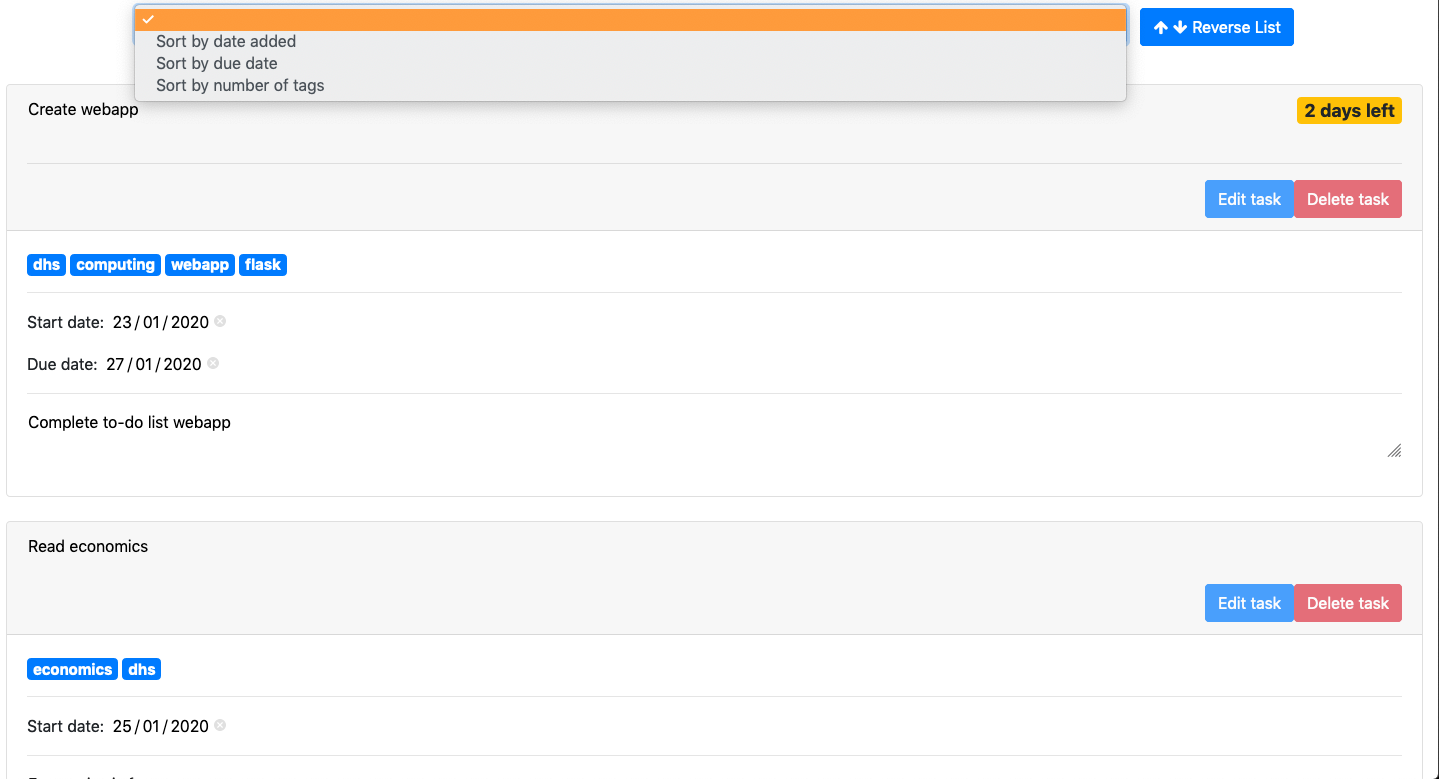
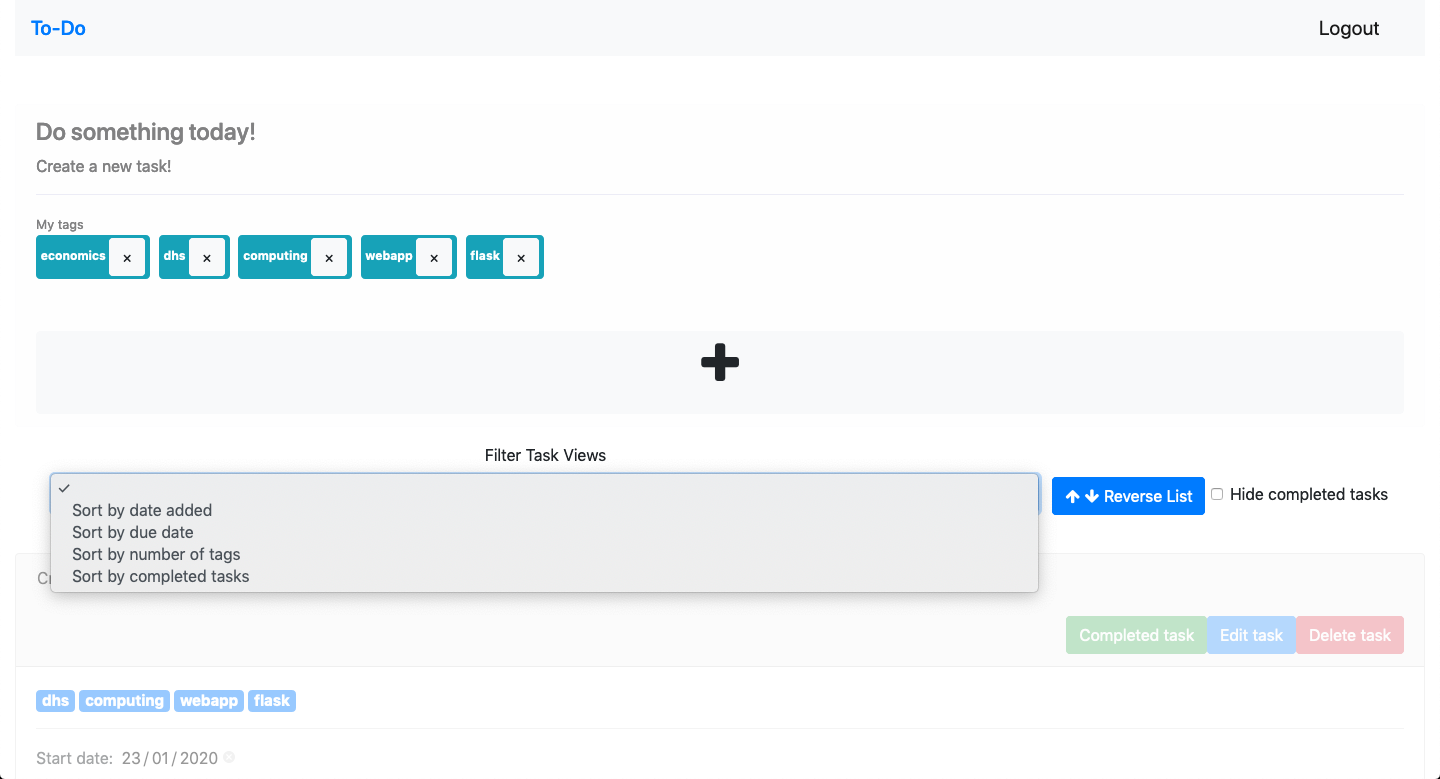
Handled task completion and added back buttons in login and signup page

diff --git a/templates/js/todo.js b/templates/js/todo.js
@@ -22,10 +22,15 @@ for (var i=0; i<editable_fields.length; i++) {
 
 function handle_filter () {
   var filter_selected = document.getElementById("filter_views").value;
+  if (filter_selected == "filter_task_completion") {
+    filter_completion();
+    event.preventDefault();
+    return false;
+  }
   filter_form.submit();
 }
 
-function filter_reverse () {
+function get_todo_nodes () {
   var todo_list = document.getElementById("todo_list");
   var child_count = todo_list.childElementCount;
   var todo_children = [];
@@ -35,11 +40,69 @@ function filter_reverse () {
     }
     todo_list.removeChild(todo_list.firstChild);
   }
+  return {"todo_children": todo_children, "child_count": child_count};
+}
+
+function filter_reverse () {
+  var todo_list = document.getElementById("todo_list");
+  var data = get_todo_nodes();
+  var todo_children = data["todo_children"];
+  var child_count = data["child_count"];
   for (var i=parseInt(child_count/2)-1; i>=0; i--) {
     todo_list.appendChild(todo_children[i]);
     var br = document.createElement("br");
     todo_list.appendChild(br);
   }
+}
+
+function filter_completion (hide=false) {
+  todo_children = get_todo_nodes()["todo_children"];
+  var todo_list = document.getElementById("todo_list");
+
+  var todos_json = JSON.parse({{todos_json|tojson}});
+  var completed_tasks_id = [];
+  for (var i=0; i<todos_json.length; i++) {
+    if (todos_json[i]["completed"]) {
+      completed_tasks_id.push(parseInt(todos_json[i]["id"]));
+    }
+  }
+
+  var completed_tasks = [];
+  var uncompleted_tasks = [];
+
+  for (var i=0; i<todo_children.length; i++) {
+    var id_attribute = todo_children[i].getAttribute("id");
+    var char = id_attribute.split("_");
+    var id = parseInt(char[char.length-1]);
+    if (completed_tasks_id.indexOf(id) != -1) {
+      completed_tasks.push(todo_children[i]);
+    }
+    else {
+      uncompleted_tasks.push(todo_children[i]);
+    }
+  }
+
+  for (var i=0; i<uncompleted_tasks.length; i++) {
+    todo_list.appendChild(uncompleted_tasks[i]);
+    var br = document.createElement("br");
+    todo_list.appendChild(br);
+  }
+
+  for (var i=0; i<completed_tasks.length; i++) {
+    if (hide) {
+      completed_tasks[i].style.display = "none";
+    }
+    else {
+      completed_tasks[i].style.display = "block";
+    }
+    todo_list.appendChild(completed_tasks[i]);
+    var br = document.createElement("br");
+    todo_list.appendChild(br);
+  }
+}
+
+function hide_completed_tasks () {
+  filter_completion(document.getElementById("completed_task_checkbox").checked);
 }
 
 function check_date (start_date, due_date, error_panel) {

diff --git a/templates/todo_page/display_task.html b/templates/todo_page/display_task.html
@@ -3,7 +3,12 @@
     {% set todo_id=todo["id"] %}
     {% set edit_form_id="edit_form_"+(todo_id|string) %}
     <form method="post" id={{edit_form_id}}>
-      <div class="card">
+      {% if todo["completed"] %}
+        {% set opacity="40%" %}
+      {% else %}
+        {% set opacity="100%" %}
+      {% endif %}
+      <div class="card" style="opacity:{{opacity}}">
           <div class="card-header">
               {% set title_id="title_"+(todo_id|string) %}
               <textarea id={{title_id}} name={{title_id}} class="edit_task_data" style="background:transparent; border-style:none; resize:none;" readonly>{{todo["Title"]}}</textarea>
@@ -25,6 +30,10 @@
                     </div>
                   {% endwith %}
                   <button type="button" style="float:right; opacity:70%;" class="btn btn-primary" value={{todo_id}} onclick="edit_task(this);">Edit task</button>
+                  <form method="POST">
+                    {% set completed_task_id="completed_task_"+(todo['id']|string) %}
+                    <button type="submit" style="float:right; opacity:70%;" class="btn btn-success" value={{todo_id}} name={{completed_task_id}}>Completed task</button>
+                  </form>
                   {% set submit_edited_id="submit_edited_"+(todo['id']|string) %}
                   <button type="submit" name="edit_task_form" style="float:left; opacity:70%; visibility:hidden;" id={{submit_edited_id}} value={{todo_id}} onclick="submit_edited(this);" class="btn btn-success">Save changes</button>
                   {% set abandon_edited_id="abandon_edited_"+(todo['id']|string) %}

diff --git a/templates/todo_page/filter_task_views.html b/templates/todo_page/filter_task_views.html
@@ -8,14 +8,21 @@
           <option value="filter_date_added">Sort by date added</option>
           <option value="filter_due_date">Sort by due date</option>
           <option value="filter_tags_number">Sort by number of tags</option>
+          <option value="filter_task_completion">Sort by completed tasks</option>
         </select>
       </div>
     </form>
   </div>
   &nbsp
-    <button name="reverse_filter" onclick="filter_reverse();" class="btn btn-primary" style="display:inline-block">
+    <button name="reverse_filter" onclick="filter_reverse();" class="btn btn-primary" style="display:inline-block;">
       <i class="fa fa-arrow-up" aria-hidden="true"></i>
       <i class="fa fa-arrow-down" aria-hidden="true"></i>
       Reverse List
     </button>
+    <div class="form-check" style="display:inline-block;">
+      <input onchange="hide_completed_tasks();" class="form-check-input" type="checkbox" id="completed_task_checkbox">
+      <label class="form-check-label" for="completed_task_checkbox">
+        Hide completed tasks
+      </label>
+    </div>
 </center>

diff --git a/templates/template.html b/templates/template.html
@@ -17,6 +17,7 @@
         <nav class="navbar navbar-light bg-light">
             <span class="navbar-brand mb-0 h1"><a href="/" style="text-decoration:none;">To-Do</a></span>
             <ul class="nav justify-content-end">
+                <span class="navbar-brand mb-0 h1">{{username}}</span>
                 <li class="nav-item" style="visibility:hidden;" id="logout_button">
                     <form method="post"><button type="submit" name="logout" class="btn navbar-brand mb-0 h1">Logout</button></form>
                 </li>
@@ -32,4 +33,3 @@
     <script src="https://stackpath.bootstrapcdn.com/bootstrap/4.3.1/js/bootstrap.min.js" integrity="sha384-JjSmVgyd0p3pXB1rRibZUAYoIIy6OrQ6VrjIEaFf/nJGzIxFDsf4x0xIM+B07jRM" crossorigin="anonymous"></script>
 </body>
 </html>
-

diff --git a/templates/signup.html b/templates/signup.html
@@ -50,7 +50,13 @@
         </div>
         <br/>
 
-        <center><button type="submit" name="submit_signup" class="btn btn-primary">Submit</button></center>
+        <center>
+          <button type="submit" name="submit_signup" class="btn btn-primary">Submit</button>
+        </center>
+    </form>
+    <br/><hr/>
+    <form method="post">
+        <input type="submit" class="form-control" name="back_to_main" id="inlineFormInputGroup" value="Go Back">
     </form>
     <br/>
     {% if error_msg %}

diff --git a/templates/login.html b/templates/login.html
@@ -36,6 +36,10 @@
     <form method="post">
         <input type="submit" class="form-control" name="forgot_password" id="inlineFormInputGroup" value="Forgot password?">
     </form>
+    <br/><hr/>
+    <form method="post">
+        <input type="submit" class="form-control" name="back_to_main" id="inlineFormInputGroup" value="Go Back">
+    </form>
 {% endif %}
 <br/>
 {% if error_msg %}

diff --git a/app.py b/app.py
@@ -78,8 +78,7 @@ def index ():
                            "email": request.form["email"]}
             session["form_data"] = ["submit_signup", form_inputs]
             return redirect(url_for("request_processor"))
-
-        if "submit_login" in request.form:
+        elif "submit_login" in request.form:
             user = User.query.filter_by(username=request.form["username"]).first()
             form_inputs = {}
             if user is None:
@@ -91,6 +90,8 @@ def index ():
                 form_inputs["login"] = False
             session["form_data"] = ["submit_login", form_inputs]
             return redirect(url_for("request_processor"))
+        elif "back_to_main" in request.form:
+            return redirect(url_for("index"))
 
     return render_template("index.html")
 
@@ -180,6 +181,11 @@ def todo():
         elif "delete_task" in list(request.form.keys())[0]:
             task = ToDo.query.filter(ToDo.id == int(request.form[list(request.form.keys())[0]])).first()
             db.session.delete(task)
+            db.session.commit()
+            return redirect(url_for("todo"))
+        elif "completed_task" in list(request.form.keys())[0]:
+            task = ToDo.query.filter(ToDo.id == int(request.form[list(request.form.keys())[0]])).first()
+            task.completed = not task.completed
             db.session.commit()
             return redirect(url_for("todo"))
         elif "delete_tag" in request.form:
@@ -350,7 +356,7 @@ def todo():
         todos.append({"Title": user_todo.title, "Body": user_todo.body,
                       "Tag": todo_tag, "Start date": start_date,
                       "Due date": due_date, "Days left": days_left,
-                      "id": user_todo.id})
+                      "id": user_todo.id, "completed": user_todo.completed})
 
     user_tags = current_user.tag_items.all()
     tags = []
@@ -369,7 +375,8 @@ def todo():
             filter_view = "Sort by number of tags"
     else:
         filter_view = ""
-    return render_template("todo.html", todos=todos, todos_json=json.dumps(todos), tags=tags, filter_view=filter_view)
+    return render_template("todo.html", todos=todos, todos_json=json.dumps(todos), tags=tags,
+                            filter_view=filter_view, username=current_user.username)
 
 
 if __name__ == "__main__":

diff --git a/README.md b/README.md
@@ -33,19 +33,18 @@ Werkzeug==0.16.0
 ![login](documentation/images/login.png)
 * Validation for correct username and password
 * Hashing of passwords to reduce vulnerability of application
-* TODO: email recovery if user forgets password, add back button for easier access to main page
+* TODO: email recovery if user forgets password
 
 ### Sign Up Page
 ![signup](documentation/images/signup.png)
 * Validation checking for all input fields
 * Hashing of passwords to reduce vulnerability of application
-* TODO: add back button for easier access to main page
 
 ### Dashboard
 ![home](documentation/images/home.png)
 * A dashboard showing tasks created
 * Tags above are not currently clickable, but can be deleted (if they are not currently used in any of the tasks)
-* TODO: user notifications for tasks, handle cases where tasks have been completed, add a delete account function
+* TODO: user notifications for tasks, add a delete account function
 
 ### Create task
 ![create_task](documentation/images/create_task.png)
